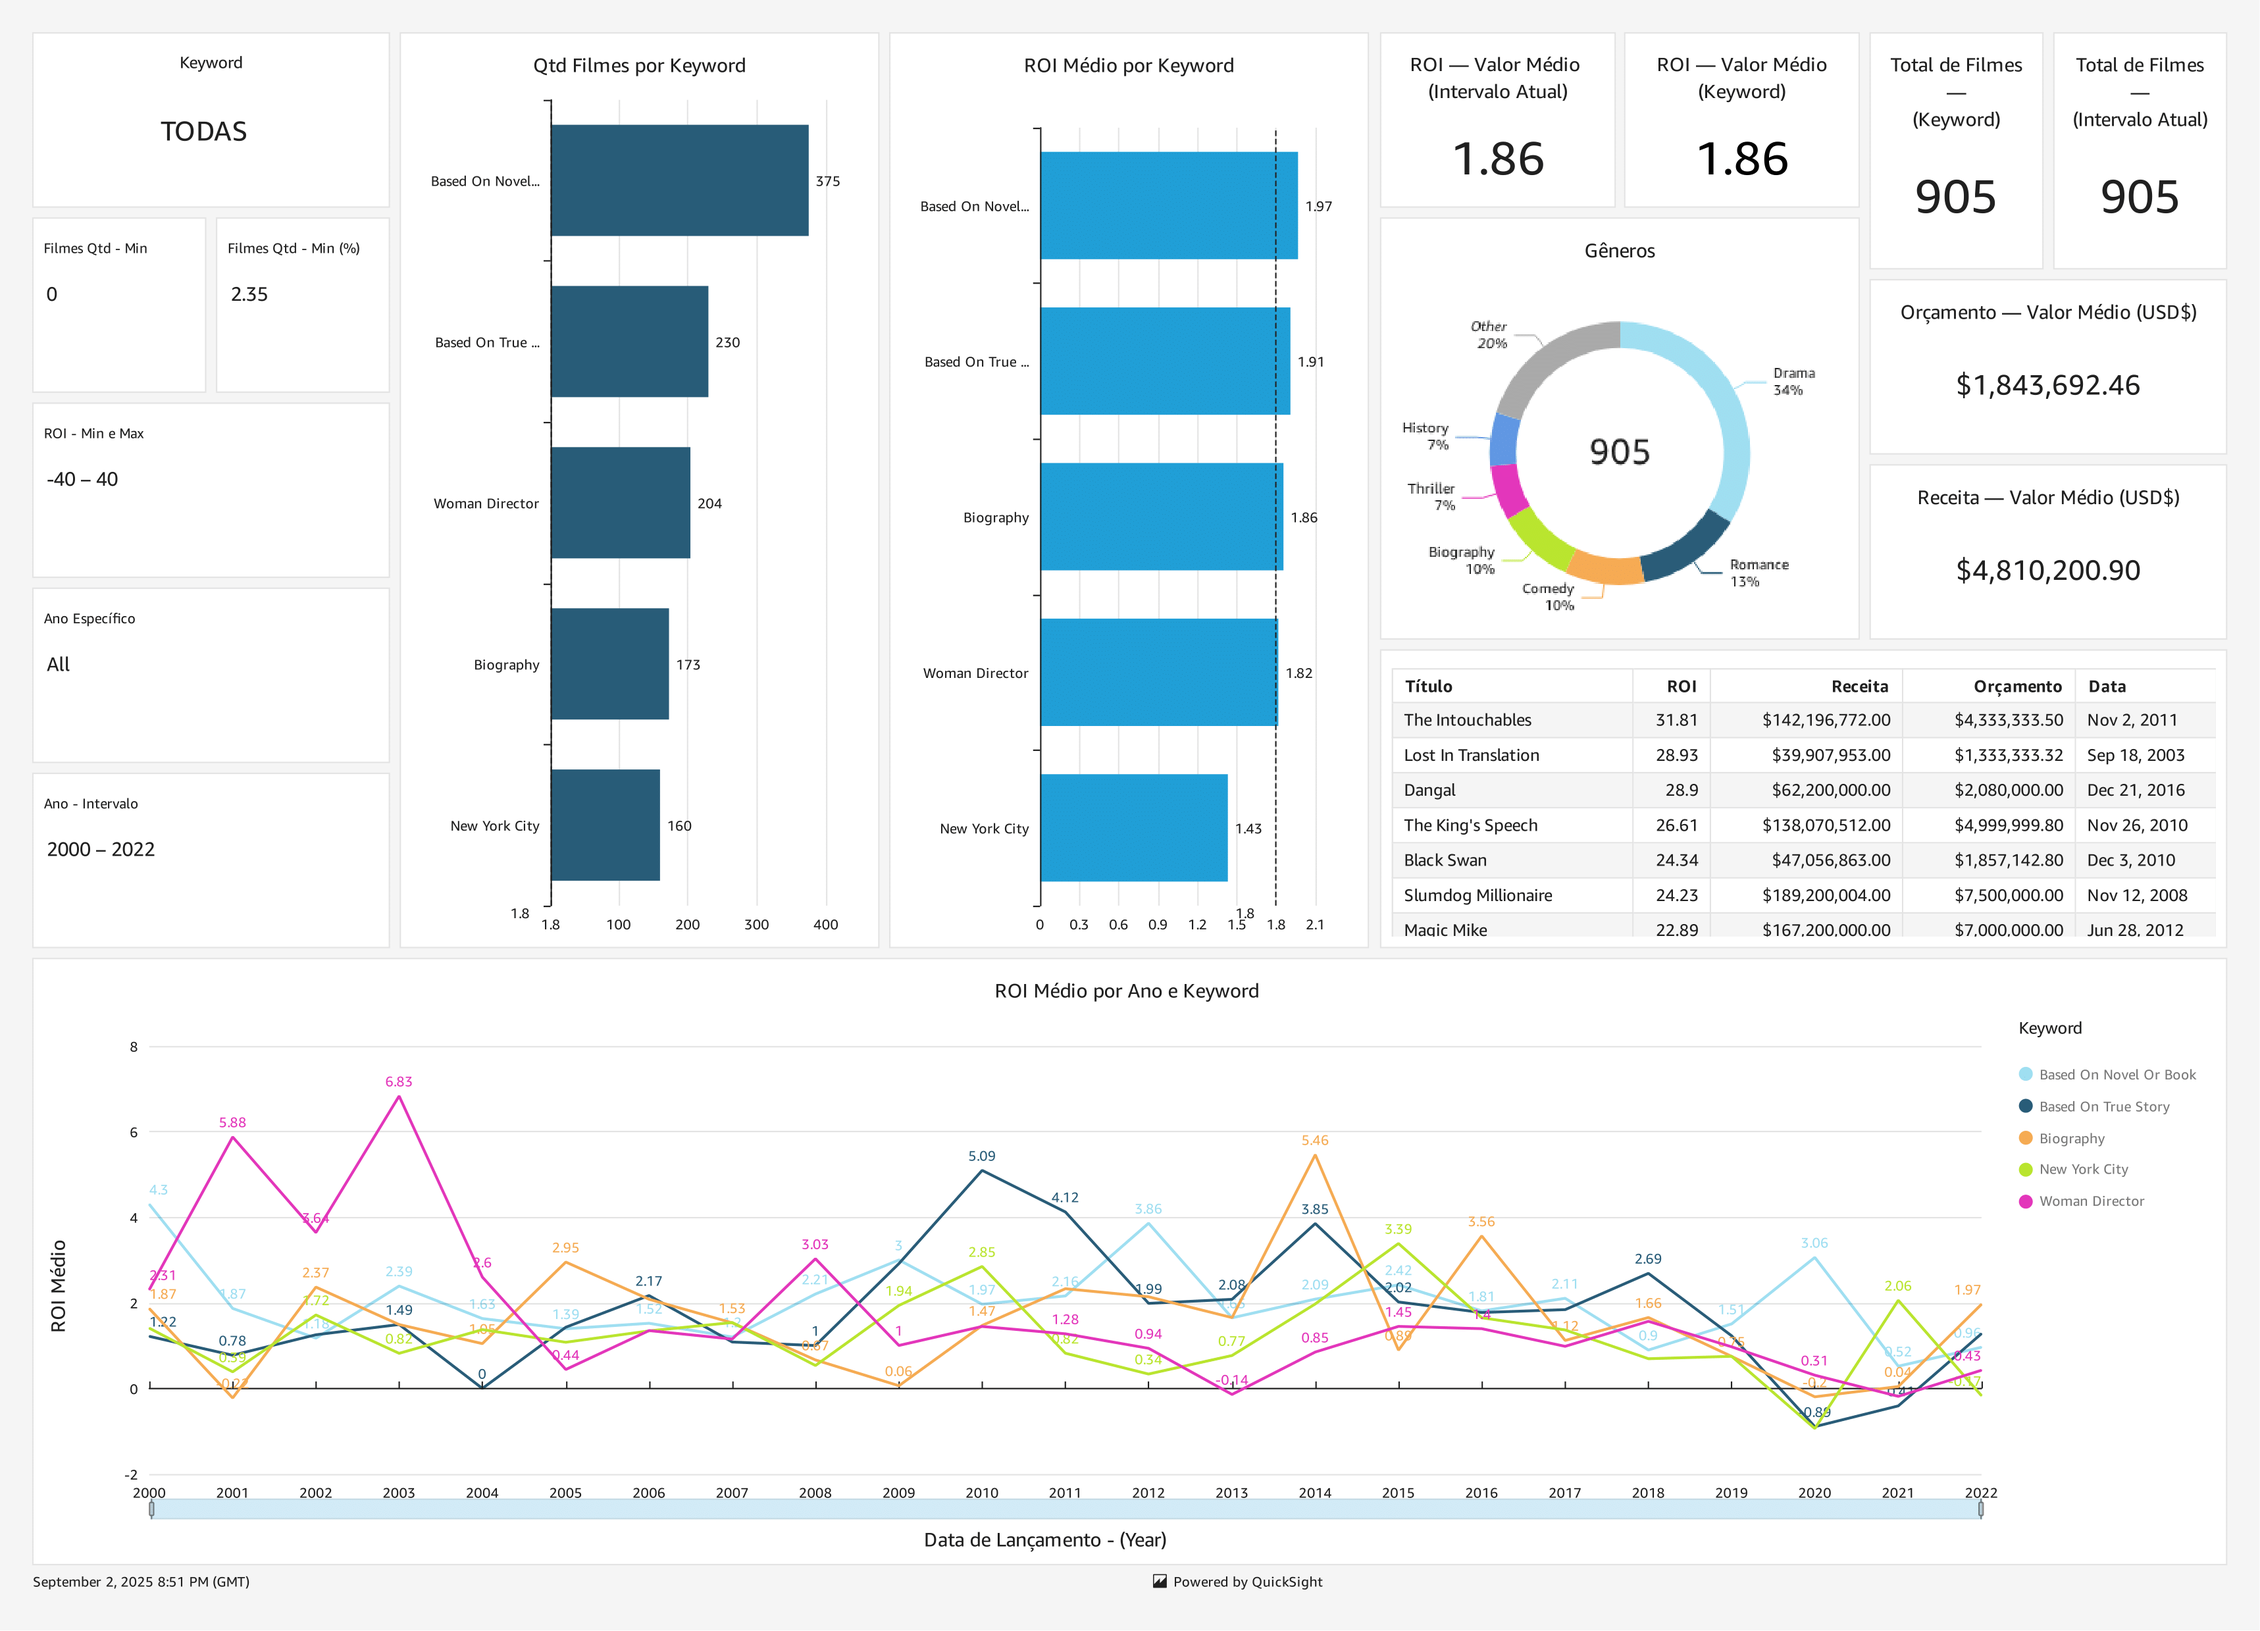
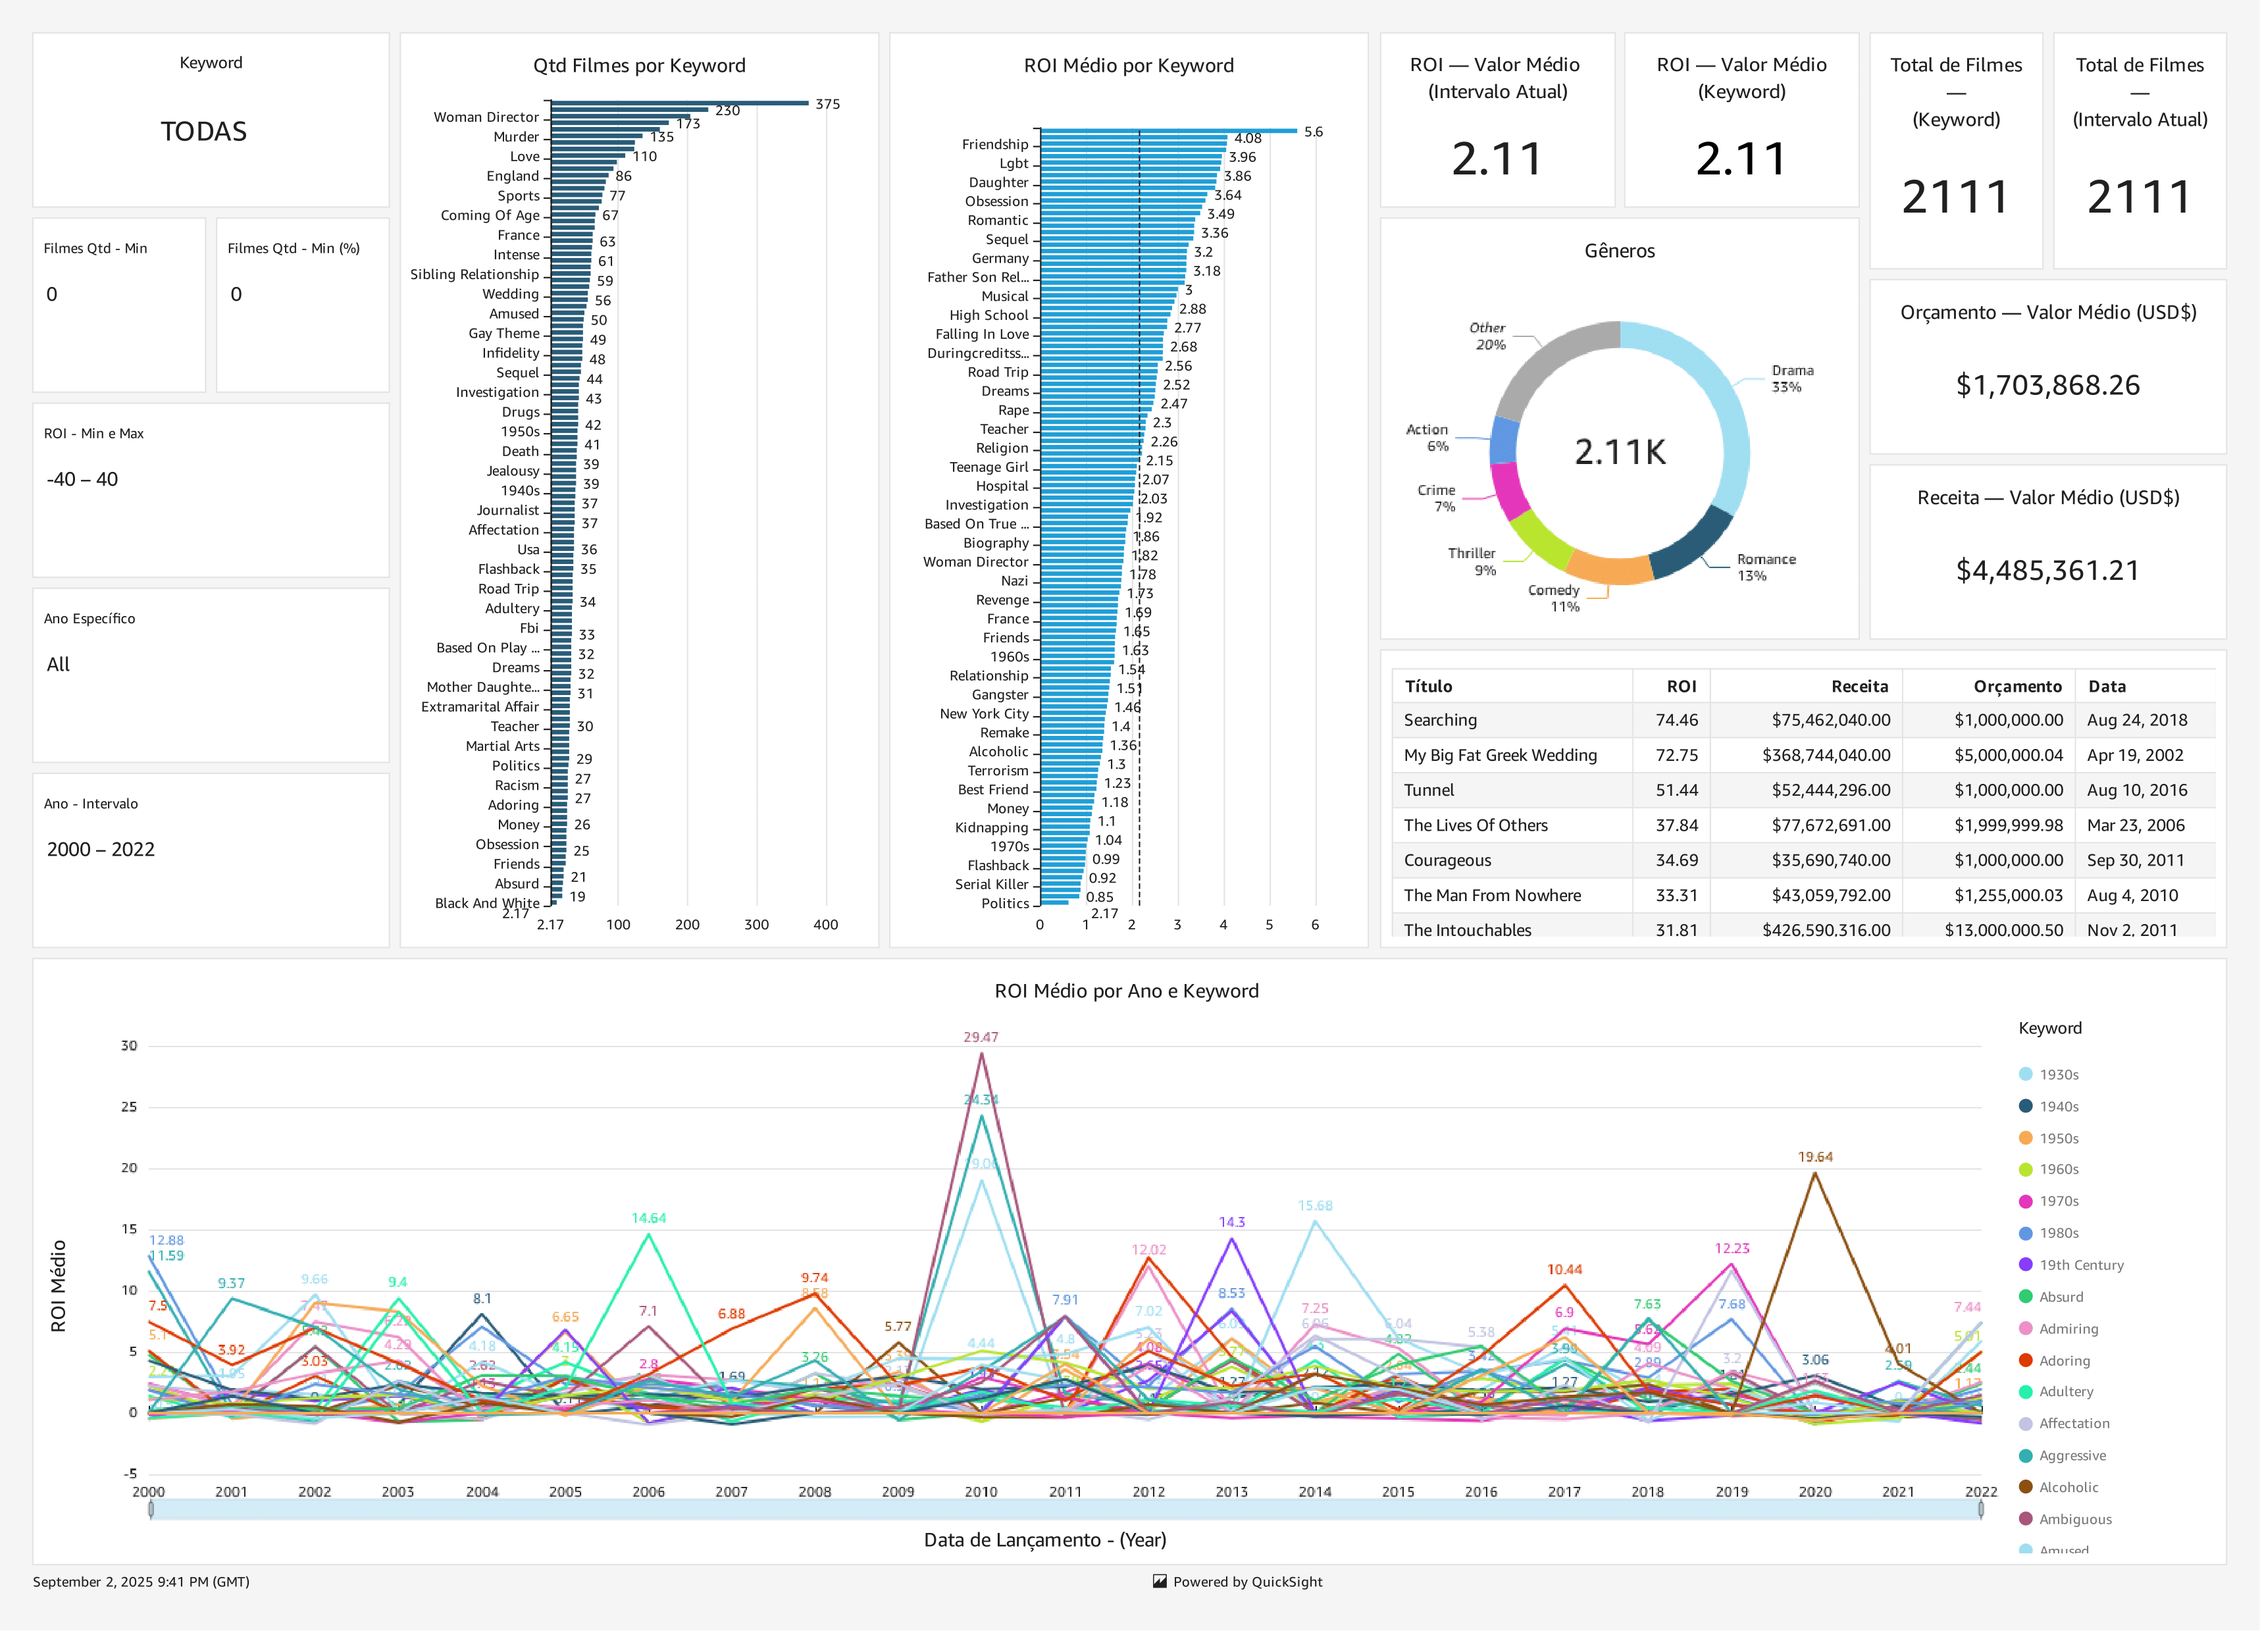
Adição dos resultados no readme

diff --git a/Sprint 8/Desafio/README.md b/Sprint 8/Desafio/README.md
@@ -98,11 +98,11 @@ Por isso, buscamos keywords que combinem dois critérios essenciais:
 
 **Exemplo:** uma keyword com ROI médio de 25.0 presente em apenas 2 filmes é um potencial outlier, pois sua representatividade é baixa e pode distorcer a análise. Já uma keyword com ROI de 3.5 presente em 50 ou mais filmes representa uma tendência mais confiável e estável, refletindo um padrão consolidado.
 
+![Dashboard princpal](../Evidencias/2_Dashboard_completo.png)
+
 O dashboard facilita a identificação visual desses casos, já que as palavras-chave com poucos filmes aparecem com barras pequenas no gráfico de "Quantidade de Filmes por Keyword". Além disso, o filtro lateral de "Quantidade mínima de filmes por keyword" permite remover rapidamente esses outliers da análise, ajustando dinamicamente os gráficos com base em critérios definidos pelo usuário e promovendo uma análise mais precisa e confiável.
 
 ## Navegação no Dashboard
-
-![Dashboard princpal](../Evidencias/2_Dashboard_completo.png)
 
 O dashboard foi planejado para oferecer uma experiência de análise intuitiva e fluida. Seu layout foi propositalmente estruturado em uma única tela enxuta, para que todas as informações relevantes estivessem visíveis de forma simultânea e conectada, eliminando a necessidade de múltiplas abas ou páginas.
 
@@ -119,6 +119,9 @@ Na lateral esquerda, há um conjunto adicional de filtros importantes para refin
 Esses filtros laterais são fundamentais para garantir que a análise se concentre nas palavras-chave mais relevantes e confiáveis para tomada de decisão, personalizando o escopo conforme a necessidade do usuário.
 
 ## Estrutura do Dashboard
+
+![Dashboard princpal](../Evidencias/2_Dashboard_completo.png)
+
 
 A disposição dos elementos no dashboard segue uma lógica pensada para comparação rápida e análise eficiente, com destaque para os seguintes componentes:
 
@@ -181,4 +184,53 @@ O dashboard foi construído com foco em clareza, eficiência e interatividade. A
 
 Com isso, torna-se uma ferramenta estratégica para identificar palavras-chave com real potencial comercial, evitando distorções por outliers e priorizando insights consistentes e acionáveis dentro do universo de filmes de Drama e Romance, contribuindo para decisões mais seguras e baseadas em dados sólidos.
 
-# Resultados
+# Resultados da Análise
+
+Após a aplicação dos filtros de quantidade mínima de filmes, selecionamos as 5 palavras-chave mais relevantes no período de 2000 a 2022. Essas palavras-chave foram escolhidas com base na frequência de ocorrência e desempenho de ROI (Retorno sobre Investimento), mantendo-se dentro dos critérios mínimos estabelecidos.
+
+As cinco palavras-chave com maior destaque foram:
+
+1. **Based on Novel or Book**  
+2. **Based on True Story**  
+3. **Woman Director**  
+4. **Biography**  
+5. **New York City**
+
+Abaixo estão os gráficos que demonstram o comportamento do ROI médio ao longo do tempo para cada uma dessas palavras-chave:
+
+- **Based on Novel or Book**  
+  ![top1](../Evidencias/5_resultado_top1.png)
+
+- **Based on True Story**  
+  ![top2](../Evidencias/6_resultado_top2.png)
+
+- **Woman Director**  
+  ![top3](../Evidencias/7_resultado_top3.png)
+
+- **Biography**  
+  ![top4](../Evidencias/8_resultado_top4.png)
+
+- **New York City**  
+  ![top5](../Evidencias/9_resultado_top5.png)
+
+---
+
+A palavra-chave **"Based on Novel or Book"** se destacou como a mais consistente em termos de ROI ao longo dos anos. Mesmo com algumas variações naturais, ela se manteve, em sua maioria, acima da linha de ROI 1.4 — o que indica rentabilidade — em diversos anos. Esse comportamento sugere que filmes baseados em livros ou romances tendem a ter um desempenho mais estável e previsível no mercado, provavelmente por já possuírem um público pré-estabelecido.
+
+### Outros Destaques Relevantes
+As demais palavras-chave também apresentaram desempenhos positivos, mas com mais oscilações:
+
+- **Based on True Story** mostrou altos picos de ROI (acima de 5 em 2010, por exemplo), mas não com a mesma regularidade de "Based on Novel or Book".
+- **Woman Director** teve excelentes resultados em anos específicos, como entre 2000 e 2004, mas com alguns períodos de inatividade ou desempenho mais modesto.
+- **Biography** também teve bons momentos, especialmente entre 2014 e 2016, chegando a um ROI próximo de 5.46.
+- **New York City**, apesar de estar entre as mais frequentes, teve o menor ROI médio entre as cinco, com performance mais irregular e limitada.
+
+---
+
+## Conclusão da Análise
+
+Com base na análise quantitativa (quantidade de filmes) e qualitativa (ROI médio por ano), concluímos que **"Based on Novel or Book" é a palavra-chave mais relevante do período de 2000 a 2022**, tanto por sua constância quanto por seu ROI elevado ao longo do tempo.
+
+Essa consistência indica que o uso desta keyword está associado a um melhor desempenho financeiro, tornando-a um forte indicativo de sucesso para futuros projetos cinematográficos.
+
+As demais keywords analisadas também mostram potencial, principalmente em nichos e contextos específicos, sendo importantes para análises complementares e estratégias de segmentação de mercado.
